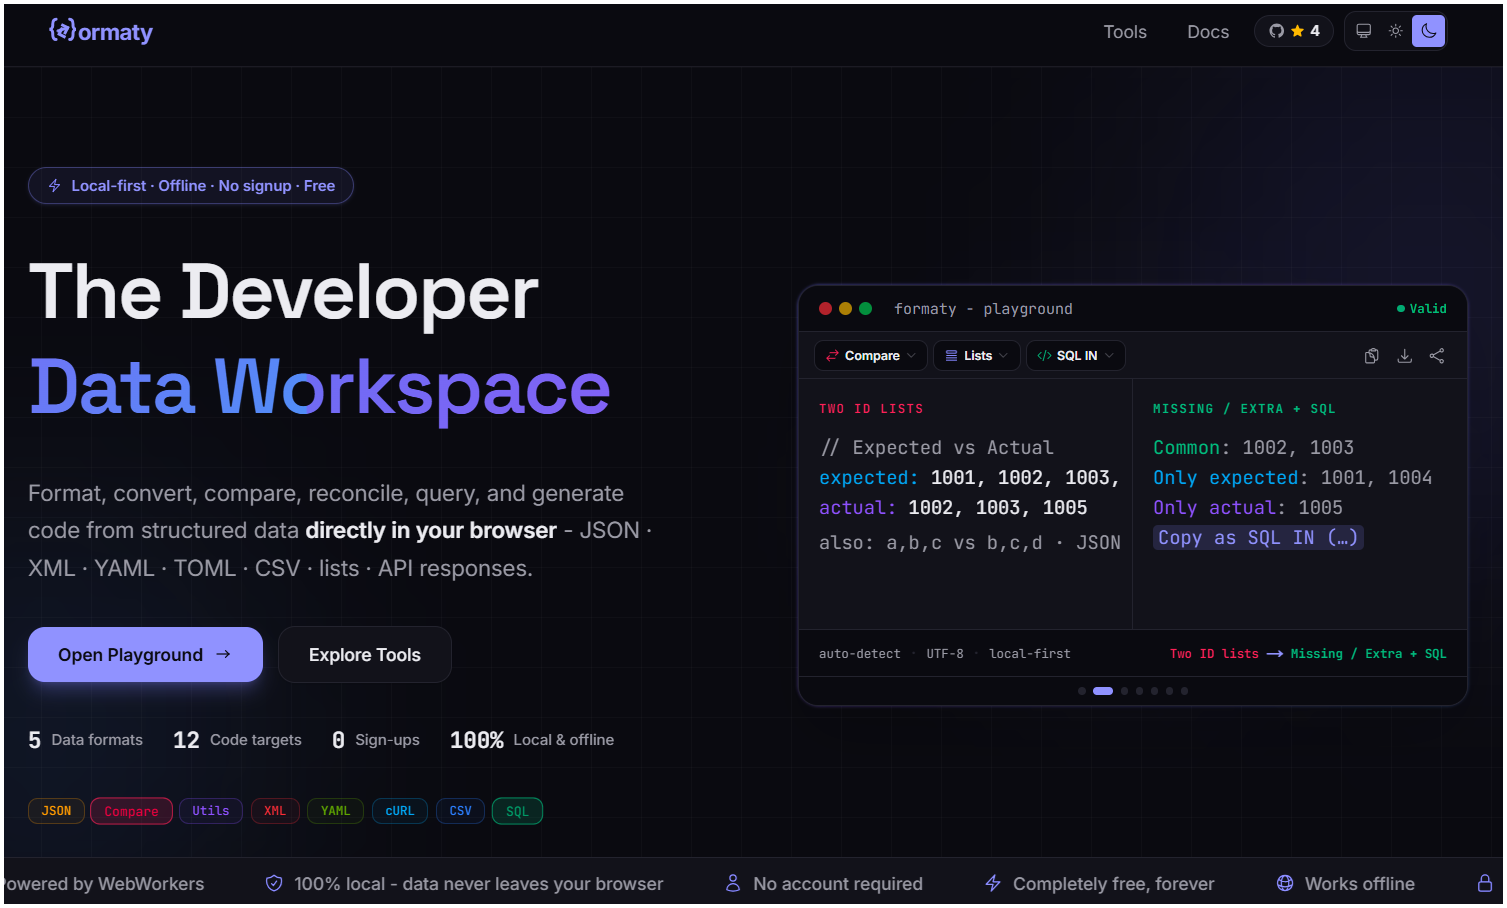
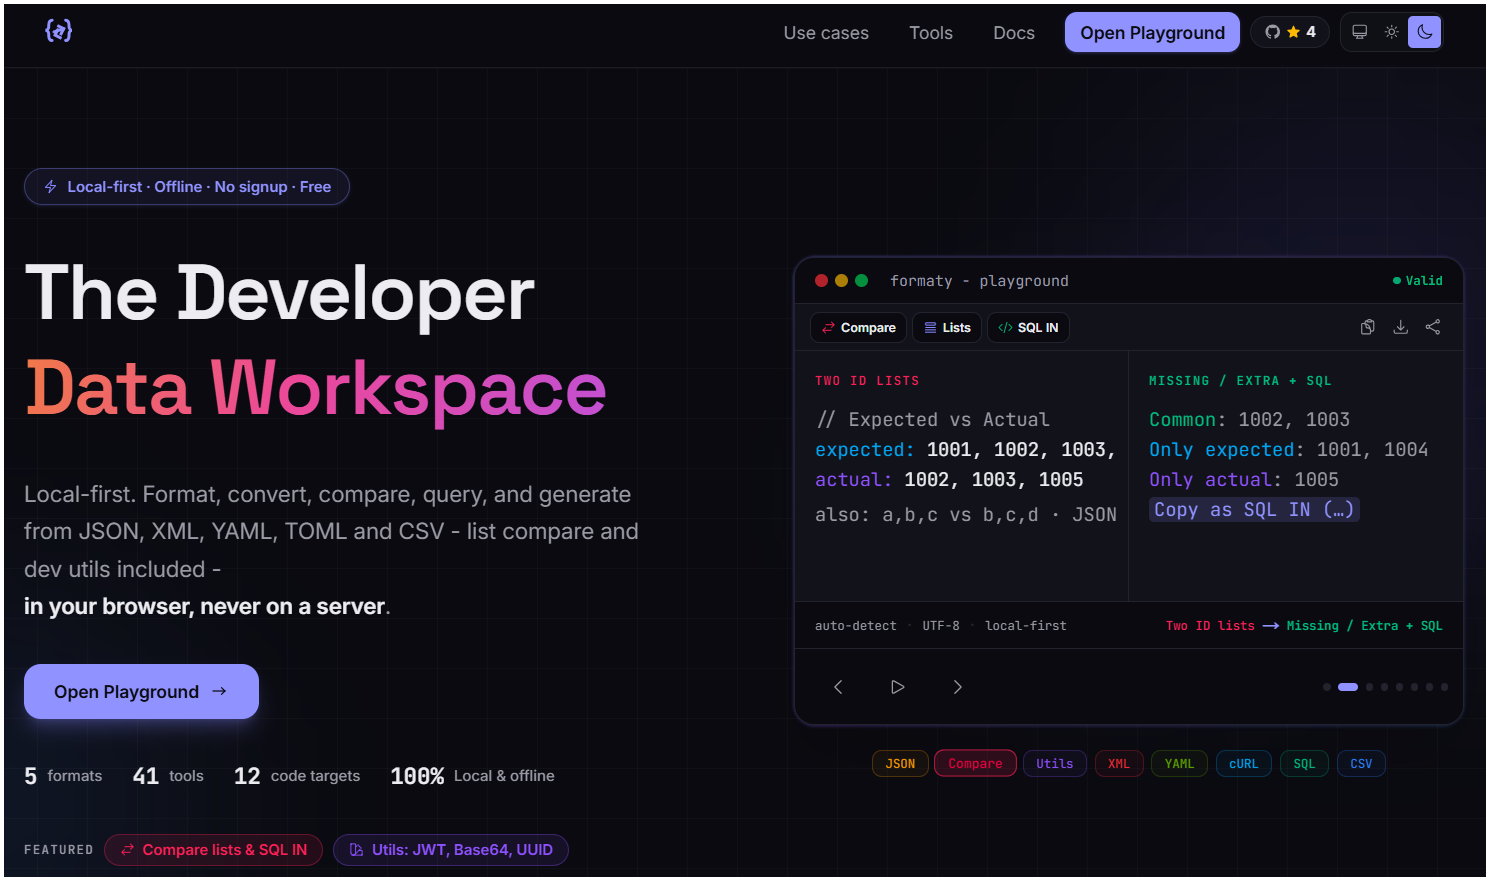
feat: new-version toast with state-preserving refresh
Polls /version.json every 5 min + on focus. Shows a framer-motion
toast when the remote build id differs from the baked one. Refresh
triggers location.reload() after a pagehide safety-net save keeps
the latest workspace state in localStorage. Dismissed ids persist
in localStorage so a new deploy re-shows.

Build id is git short SHA + timestamp, computed once in
next.config.ts, written to out/version.json via a postbuild script
that reads the same value from .next/formaty-build-id (env vars
don't propagate to the separate postbuild process). Toast is a
no-op in dev and when no build id is present.

diff --git a/src/components/UpdateToast.tsx b/src/components/UpdateToast.tsx
@@ -1,0 +1,87 @@
+"use client";
+
+import { useEffect, useState } from "react";
+import { AnimatePresence, motion } from "framer-motion";
+import { ArrowPathIcon, XMarkIcon } from "@heroicons/react/24/outline";
+import { dismissUpdate, subscribeToVersionUpdates } from "@/lib/versionCheck";
+
+/** Floating "new version available" toast. Polls `/version.json` via
+ *  `subscribeToVersionUpdates`; appears when a different id is live. Refresh
+ *  snapshots the current workspace state to sessionStorage so it survives
+ *  the reload; Dismiss hides until a *newer* id appears. */
+export function UpdateToast() {
+  const [remote, setRemote] = useState<string | null>(null);
+
+  useEffect(() => {
+    const sub = subscribeToVersionUpdates((id) => setRemote(id));
+    return () => sub.stop();
+  }, []);
+
+  const onRefresh = () => {
+    // WorkspaceContent's `pagehide` listener flushes the latest state to
+    // localStorage synchronously before this reload; the existing
+    // mount-time hydrate then restores it.
+    window.location.reload();
+  };
+
+  const onDismiss = () => {
+    if (remote) dismissUpdate(remote);
+    setRemote(null);
+  };
+
+  return (
+    <AnimatePresence>
+      {remote ? (
+        <motion.div
+          key="update-toast"
+          role="status"
+          aria-live="polite"
+          initial={{ opacity: 0, y: 20, scale: 0.98 }}
+          animate={{ opacity: 1, y: 0, scale: 1 }}
+          exit={{ opacity: 0, y: 20, scale: 0.98 }}
+          transition={{ duration: 0.2, ease: "easeOut" }}
+          className="fixed bottom-4 right-4 z-[300] w-[calc(100%-2rem)] max-w-sm rounded-xl border border-[var(--border)] bg-[var(--card)] p-4 shadow-2xl"
+        >
+          <div className="flex items-start gap-3">
+            <ArrowPathIcon
+              className="mt-0.5 h-5 w-5 shrink-0 text-[var(--primary)]"
+              aria-hidden
+            />
+            <div className="min-w-0 flex-1">
+              <p className="text-sm font-semibold text-[var(--card-foreground)]">
+                New version available
+              </p>
+              <p className="mt-1 text-xs leading-relaxed text-[var(--muted-foreground)]">
+                Refresh to load the latest updates.
+              </p>
+              <div className="mt-3 flex items-center gap-2">
+                <button
+                  type="button"
+                  onClick={onRefresh}
+                  className="h-8 rounded-md bg-[var(--primary)] px-3 text-xs font-semibold text-[var(--primary-foreground)] transition-opacity hover:opacity-90"
+                >
+                  Refresh
+                </button>
+                <button
+                  type="button"
+                  onClick={onDismiss}
+                  className="h-8 rounded-md px-3 text-xs font-medium text-[var(--muted-foreground)] transition-colors hover:bg-[var(--accent)] hover:text-[var(--accent-foreground)]"
+                >
+                  Later
+                </button>
+              </div>
+            </div>
+            <button
+              type="button"
+              onClick={onDismiss}
+              aria-label="Dismiss update notification"
+              className="rounded-md p-1 text-[var(--muted-foreground)] transition-colors hover:bg-[var(--accent)] hover:text-[var(--accent-foreground)]"
+            >
+              <XMarkIcon className="h-4 w-4" aria-hidden />
+            </button>
+          </div>
+        </motion.div>
+      ) : null}
+    </AnimatePresence>
+  );
+}

diff --git a/src/lib/versionCheck.ts b/src/lib/versionCheck.ts
@@ -1,0 +1,103 @@
+import { BUILD_ID, UPDATE_CHECK_ENABLED } from "./buildId";
+
+/** Payload served by the static `version.json` file written at build time. */
+export interface VersionPayload {
+  id: string;
+  v: string;
+  t: number;
+}
+
+const DISMISSED_KEY = "formaty:update-dismissed";
+const POLL_INTERVAL_MS = 5 * 60 * 1000;
+const VERSION_URL = "/version.json";
+
+/** Pure decision fn: should we surface the "new version" toast given the
+ *  current baked id, the freshly fetched remote id, and what the user has
+ *  already dismissed? Kept side-effect-free for unit testing. */
+export function shouldShowUpdate(
+  baked: string,
+  remote: string | null,
+  dismissed: string | null,
+): { show: boolean; remote: string | null } {
+  if (!baked) return { show: false, remote };
+  if (!remote) return { show: false, remote: null };
+  if (remote === baked) return { show: false, remote };
+  if (dismissed && dismissed === remote) return { show: false, remote };
+  return { show: true, remote };
+}
+
+function readDismissed(): string | null {
+  if (typeof window === "undefined") return null;
+  try {
+    return window.localStorage.getItem(DISMISSED_KEY);
+  } catch {
+    return null;
+  }
+}
+
+export function dismissUpdate(remote: string): void {
+  if (typeof window === "undefined") return;
+  try {
+    window.localStorage.setItem(DISMISSED_KEY, remote);
+  } catch {
+    /* private mode / quota - ignore */
+  }
+}
+
+async function fetchRemote(): Promise<string | null> {
+  if (typeof window === "undefined") return null;
+  try {
+    const res = await fetch(VERSION_URL, { cache: "no-store" });
+    if (!res.ok) return null;
+    const data = (await res.json()) as Partial<VersionPayload>;
+    if (typeof data.id !== "string" || data.id.length === 0) return null;
+    return data.id;
+  } catch {
+    return null;
+  }
+}
+
+export type VersionUpdateHandler = (remote: string) => void;
+
+export interface VersionSubscription {
+  stop: () => void;
+}
+
+/** Polls `version.json` and invokes `onUpdate` when a newer build is live.
+ *  Polling cadence: immediate check, every POLL_INTERVAL_MS while the tab is
+ *  visible, plus a check on `visibilitychange=visible`. Returns a teardown
+ *  fn. Safe to call when `UPDATE_CHECK_ENABLED` is false - it no-ops. */
+export function subscribeToVersionUpdates(onUpdate: VersionUpdateHandler): VersionSubscription {
+  if (!UPDATE_CHECK_ENABLED) {
+    return { stop: () => {} };
+  }
+
+  let stopped = false;
+  let timer: ReturnType<typeof setInterval> | null = null;
+
+  const check = async () => {
+    if (stopped) return;
+    const remote = await fetchRemote();
+    if (stopped) return;
+    const { show, remote: confirmed } = shouldShowUpdate(BUILD_ID, remote, readDismissed());
+    if (show && confirmed) onUpdate(confirmed);
+  };
+
+  const onVisibility = () => {
+    if (document.visibilityState === "visible") void check();
+  };
+
+  void check();
+  timer = setInterval(() => {
+    if (document.visibilityState === "visible") void check();
+  }, POLL_INTERVAL_MS);
+  document.addEventListener("visibilitychange", onVisibility);
+
+  return {
+    stop: () => {
+      stopped = true;
+      if (timer) clearInterval(timer);
+      document.removeEventListener("visibilitychange", onVisibility);
+    },
+  };
+}

diff --git a/next.config.ts b/next.config.ts
@@ -1,12 +1,43 @@
 import type { NextConfig } from "next";
+import { execSync } from "node:child_process";
+import { writeFileSync, mkdirSync } from "node:fs";
+import { join } from "node:path";
+
+/** Per-build identifier baked into the client bundle and written to
+ *  `out/version.json` by `scripts/write-version.mjs` so the running app can
+ *  poll for new deploys. Falls back to a timestamp when not in a git repo. */
+function computeBuildId(): string {
+  let sha = "nogit";
+  try {
+    sha = execSync("git rev-parse --short HEAD", { stdio: ["ignore", "pipe", "ignore"] })
+      .toString()
+      .trim();
+  } catch {
+    /* not a git checkout (CI artifact, snapshot) - keep fallback */
+  }
+  return `${sha}-${Date.now()}`;
+}
+
+const BUILD_ID = computeBuildId();
+process.env.NEXT_PUBLIC_BUILD_ID = BUILD_ID;
+// Shared file so the postbuild script (separate Node process) reads the
+// exact same id - we cannot rely on env-var inheritance through Bun.
+try {
+  mkdirSync(join(process.cwd(), ".next"), { recursive: true });
+  writeFileSync(join(process.cwd(), ".next", "formaty-build-id"), BUILD_ID, "utf8");
+} catch {
+  /* best effort - script falls back to its own computation if missing */
+}
 
 const nextConfig: NextConfig = {
   output: "export",
   transpilePackages: ["jsoncrack-react"],
+  generateBuildId: () => BUILD_ID,
   env: {
     FORMATY_API_URL: process.env.FORMATY_API_URL,
     SITE_URL: process.env.SITE_URL,
-    NEXT_PUBLIC_GA_MEASUREMENT_ID: process.env.NEXT_PUBLIC_GA_MEASUREMENT_ID,
+    NEXT_PUBLIC_GA_MASUREMENT_ID: process.env.NEXT_PUBLIC_GA_MASUREMENT_ID,
+    NEXT_PUBLIC_BUILD_ID: BUILD_ID,
   },
   turbopack: {},
 };

diff --git a/src/components/WorkspaceContent.tsx b/src/components/WorkspaceContent.tsx
@@ -2137,6 +2137,33 @@ export function WorkspaceContent({
     }
   }, [input, output, split, themeMode, typeLanguage, rightView, formatOptions, convertToFormat, liveTransform, editorFontSize, viewAsMenu, lineWrap, autoFormatOnPaste, mobileShowOutput, activeOperation, pinnedItems, outputActionVisibility, tabs, activeTabId, showTabs, inputFormatOverride, undoStack, undoIndex, outputExt, outputLanguage, diffLeftInput, diffRightInput, diffKind, isOutputMaximized, utilTab, utilsByTool, captureTabSnapshot]);
 
+  // Synchronous safety-net save on tab hide/reload so the new-version
+  // toast's `location.reload()` never loses an in-flight edit between the
+  // last render commit and the unload.
+  useEffect(() => {
+    const flush = () => {
+      try {
+        const raw = localStorage.getItem("formaty-session");
+        const prev = raw ? (JSON.parse(raw) as Record<string, unknown>) : {};
+        localStorage.setItem(
+          "formaty-session",
+          JSON.stringify({
+            ...prev,
+            input,
+            output: cleanSessionOutput(output),
+            tabs,
+            activeTabId,
+            tabCounter: tabCounterRef.current,
+          }),
+        );
+      } catch {
+        /* localStorage unavailable - skip */
+      }
+    };
+    window.addEventListener("pagehide", flush);
+    return () => window.removeEventListener("pagehide", flush);
+  }, [input, output, tabs, activeTabId]);
+
   // Prefer structured parse for views (table/tree/graph/query)
   useEffect(() => {
     // While Compare/Utils own the main pane, keep transform parsed data intact

diff --git a/src/lib/versionCheck.test.ts b/src/lib/versionCheck.test.ts
@@ -1,0 +1,34 @@
+import { describe, expect, it } from "vitest";
+import { shouldShowUpdate } from "./versionCheck";
+
+describe("shouldShowUpdate", () => {
+  it("hides when baked id is empty (dev)", () => {
+    expect(shouldShowUpdate("", "remote-1", null)).toEqual({ show: false, remote: "remote-1" });
+  });
+
+  it("hides when remote fetch failed", () => {
+    expect(shouldShowUpdate("baked", null, null)).toEqual({ show: false, remote: null });
+  });
+
+  it("hides when remote matches baked", () => {
+    expect(shouldShowUpdate("baked", "baked", null)).toEqual({ show: false, remote: "baked" });
+  });
+
+  it("shows when remote differs and nothing dismissed", () => {
+    expect(shouldShowUpdate("baked", "remote-2", null)).toEqual({ show: true, remote: "remote-2" });
+  });
+
+  it("hides when the user already dismissed this exact remote", () => {
+    expect(shouldShowUpdate("baked", "remote-2", "remote-2")).toEqual({
+      show: false,
+      remote: "remote-2",
+    });
+  });
+
+  it("shows when remote is newer than the dismissed id", () => {
+    expect(shouldShowUpdate("baked", "remote-3", "remote-2")).toEqual({
+      show: true,
+      remote: "remote-3",
+    });
+  });
+});

diff --git a/src/lib/buildId.ts b/src/lib/buildId.ts
@@ -1,0 +1,10 @@
+/** Build id baked at compile time via `next.config.ts` (`env.NEXT_PUBLIC_BUILD_ID`).
+ *  The static export also writes this same id to `out/version.json` so the
+ *  client can poll for a newer deploy. Empty string in dev (env var unset)
+ *  means the update check is disabled. */
+export const BUILD_ID: string = process.env.NEXT_PUBLIC_BUILD_ID ?? "";
+
+/** `true` when running in production and a build id is available. The update
+ *  toast polls only then - dev HMR and local file edits would loop otherwise. */
+export const UPDATE_CHECK_ENABLED: boolean =
+  process.env.NODE_ENV === "production" && BUILD_ID.length > 0;

diff --git a/src/app/layout.tsx b/src/app/layout.tsx
@@ -6,6 +6,7 @@ import { Inter, JetBrains_Mono, Space_Grotesk } from "next/font/google";
 import { Analytics } from "@/components/Analytics";
 import { ConsentBanner } from "@/components/ConsentBanner";
 import { ServiceWorkerRegister } from "@/components/ServiceWorkerRegister";
+import { UpdateToast } from "@/components/UpdateToast";
 import "./globals.css";
 
 const inter = Inter({
@@ -318,6 +319,7 @@ export default function RootLayout({
           </Suspense>
         </MotionConfig>
         <ServiceWorkerRegister />
+        <UpdateToast />
         <ConsentBanner />
       </body>
     </html>
